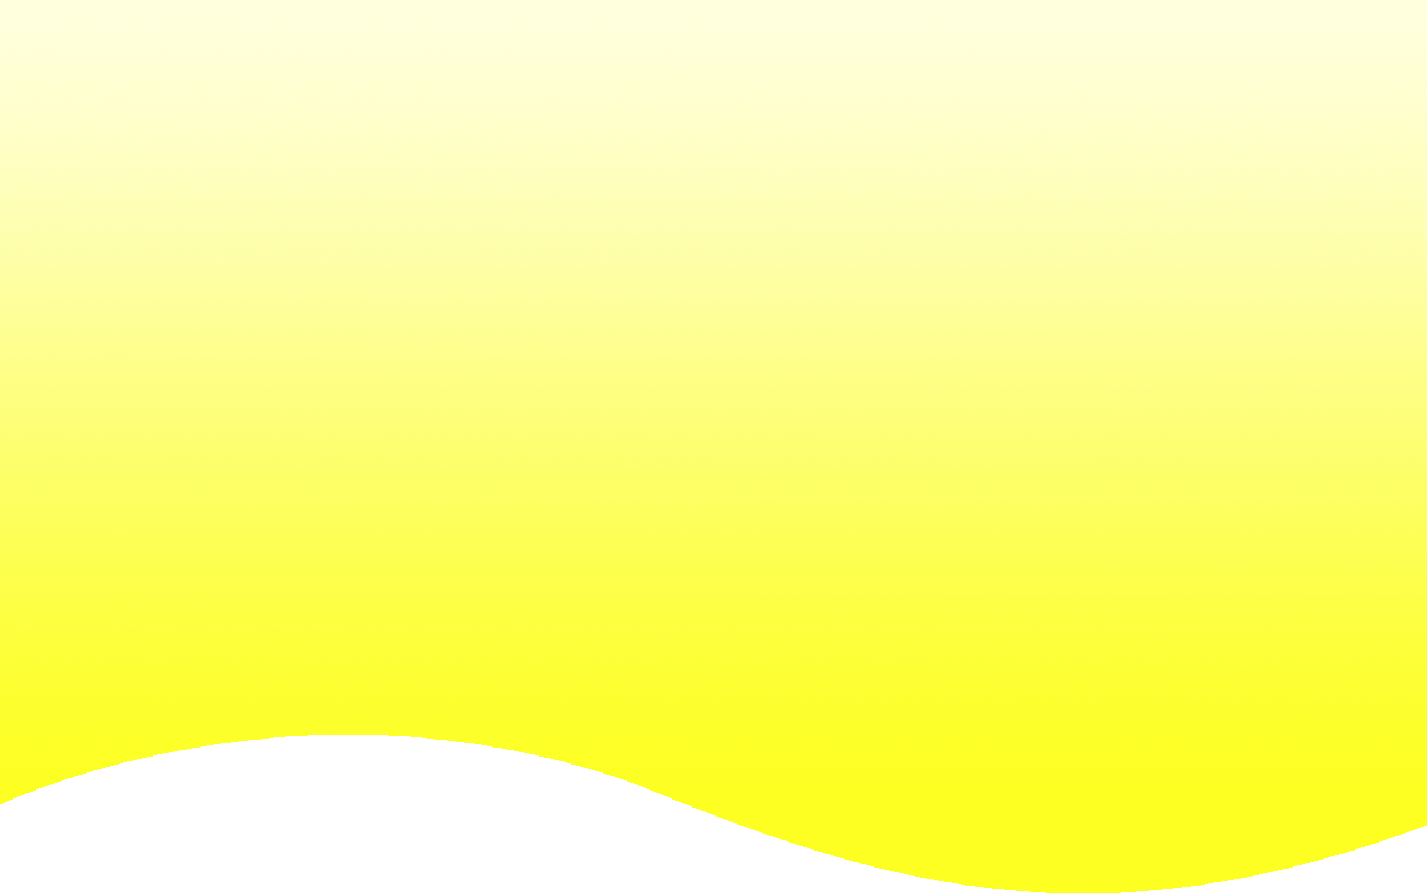
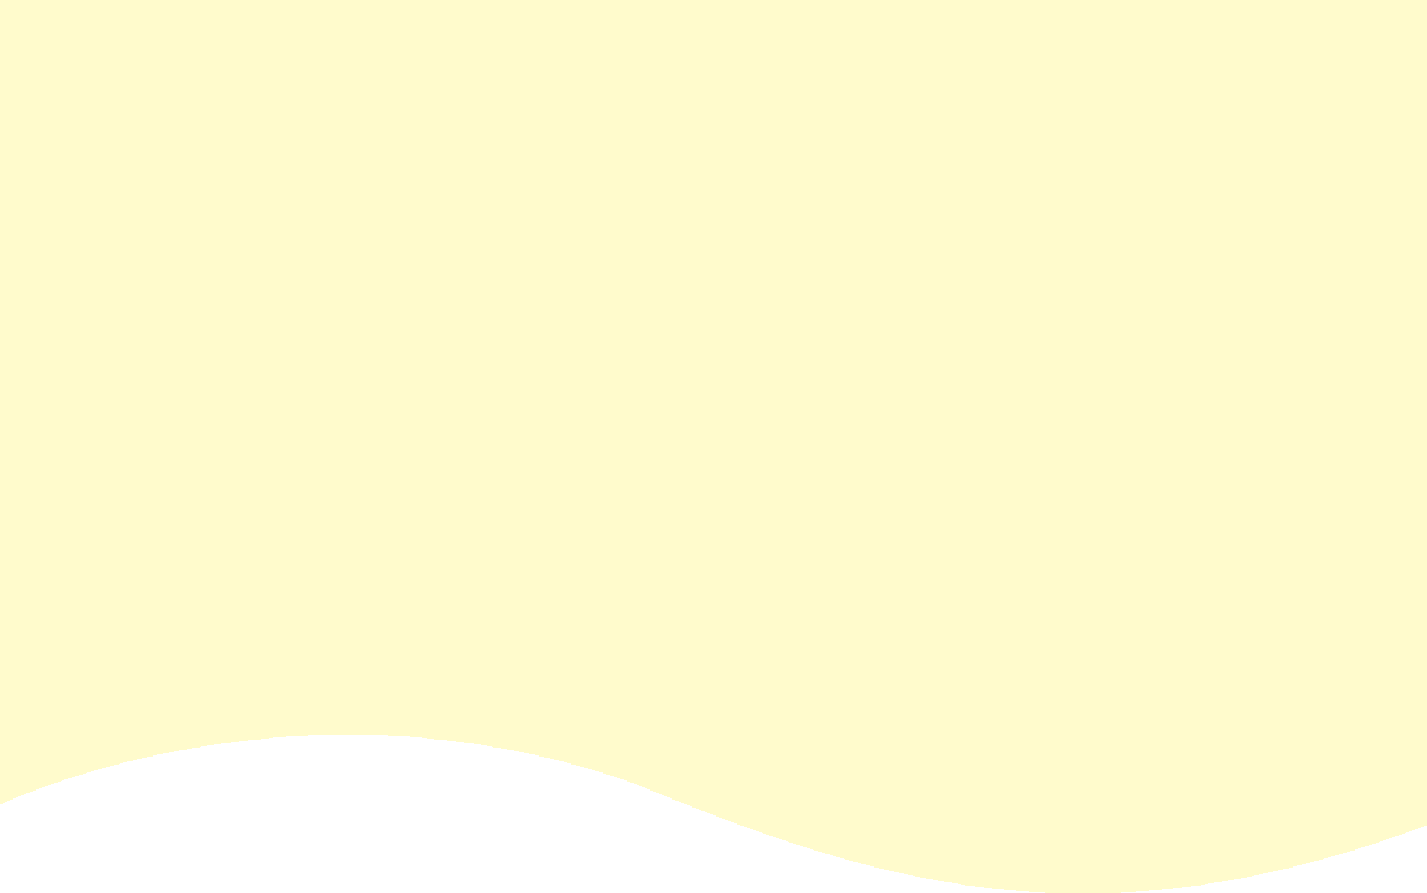
Add files via upload

diff --git a/service.html b/service.html
@@ -50,7 +50,7 @@
         <nav class="navbar navbar-expand-lg custom_nav-container ">
           <a class="navbar-brand" href="index.html">
             <span>
-              東方晒圖公司 
+              東方晒圖公司 Tel:24935338
             </span>
           </a>
 
@@ -119,8 +119,8 @@
                   快速, 準確, 又清楚的線條, 是我們追求的圖紙線條要求。另有電腦素描。紙的一邊可達841mm, 另一邊可超過3000mm,
                   歡迎查詢。
                 </p>
-                <a href="">
-                  Read More
+                <a href="contact.html">
+                  歡迎查詢
                 </a>
               </div>
             </div>
@@ -138,8 +138,8 @@
                   PP紙, 相紙, 畫布, 燈片, 燈布, 車身貼, 磨沙/透明貼, 裱板等等。
                   為您各類宣傳印刷品。
                 </p>
-                <a href="">
-                  歡迎查詢報價
+                <a href="contact.html">
+                  歡迎查詢
                 </a>
               </div>
             </div>
@@ -154,7 +154,7 @@
                   宣傳海報/橫額/大型過膠
                 </h5>
                 <p>
-                  PP紙, 相紙, 畫布, 燈片, 燈布, 車身貼, 磨沙/透明貼, 裱板等等。
+                  PP紙, 光/啞相紙, 畫布, 燈片, 帆布, 車身貼, 磨沙/透明貼, 裱板等等。
                   為您各類宣傳印刷品。
                 </p>
                 <a href="contact.html">
@@ -196,6 +196,12 @@
                 <i class="fa fa-phone" aria-hidden="true"></i>
                 <span>
                   電話: 24935338 
+                </span>
+              </a>
+              <a href="">
+                <i class="fa fa-whatsapp" aria-hidden="true"></i>
+                <span>
+                  Whatsapp: 98110589 
                 </span>
               </a>
               <a href="mailto:tftn123@gmail.com">

diff --git a/index.html b/index.html
@@ -50,7 +50,9 @@
         <nav class="navbar navbar-expand-lg custom_nav-container ">
           <a class="navbar-brand" href="index.html">
             <span>
-             Tel: 24935338 tftn123@gmail.com
+              <span>
+                東方晒圖公司 Tel:24935338
+              </span> 
             </span>
           </a>
 
@@ -264,11 +266,11 @@
             </div>
           </div>
         </div>
-        <div class="btn-box">
+        <!--<div class="btn-box">
           <a href="">
-            View All
+            歡迎查詢報價
           </a>
-        </div>
+        </div>-->
       </div>
     </div>
   </section>
@@ -366,7 +368,7 @@
               隨時下單
             </h5>
             <p>
-              1個電話 / 1個電郵, 隨時下單
+              1個電話 (tel:24935338) / 1個電郵 (tftn123@gmail.com), 隨時下單
             </p>
           </div>
         </div>
@@ -667,7 +669,13 @@
               <a href="">
                 <i class="fa fa-phone" aria-hidden="true"></i>
                 <span>
-                  電話: 24935338 
+                  電話: 2493-5338 
+                </span>
+              </a>
+              <a href="">
+                <i class="fa fa-whatsapp" aria-hidden="true"></i>
+                <span>
+                  Whatsapp: 98110589 
                 </span>
               </a>
               <a href="mailto:tftn123@gmail.com">

diff --git a/css/style.css b/css/style.css
@@ -127,7 +127,7 @@ a:focus {
 
 .sub_page .hero_area {
   min-height: auto;
-  background: linear-gradient(130deg, #ffff9e, #f9f94e);
+  background: linear-gradient(130deg, #ffffe8, #ffffec);
 }
 
 .sub_page .hero_area .hero_bg_box {
@@ -180,7 +180,7 @@ a:focus {
   height: 35px;
   padding: 0;
   border: none;
-  color: #ffffff;
+  color: #35552e;
 }
 
 .custom_nav-container .nav_search-btn:hover {
@@ -203,7 +203,7 @@ a:focus {
   display: block;
   width: 35px;
   height: 4px;
-  background-color: #ffffff;
+  background-color: #251f1f;
   margin: 7px 0;
   -webkit-transition: all 0.3s;
   transition: all 0.3s;
@@ -218,7 +218,7 @@ a:focus {
   left: 0;
   height: 100%;
   width: 100%;
-  background-color: #ffffff;
+  background-color: #bb250a;
   top: -10px;
   border-radius: 5px;
   -webkit-transition: all 0.3s;
@@ -775,8 +775,8 @@ a:focus {
 
 /* client section end */
 .info_section {
-  background-color: #00204a;
-  color: #ffffff;
+  background-color: #5a8fd5;
+  color: #fffb00;
   padding: 45px 0 15px 0;
 }
 

diff --git a/contact.html b/contact.html
@@ -118,6 +118,12 @@
                   電話: 24935338 
                 </span>
               </a>
+              <a href="">
+                <i class="fa fa-whatsapp" aria-hidden="true"></i>
+                <span>
+                  Whatsapp: 98110589 
+                </span>
+              </a>
               <a href="mailto:tftn123@gmail.com">
                 <i class="fa fa-envelope" aria-hidden="true"></i>
                 <span>
@@ -196,8 +202,8 @@
   <section class="footer_section">
     <div class="container">
       <p>
-        &copy; <span id="displayYear"></span> All Rights Reserved By
-        <a href="https://html.design/">Free Html Templates</a>
+        &copy; <span id="displayYear"></span> 東方晒圖公司版權所有
+       
       </p>
     </div>
   </section>

diff --git a/about.html b/about.html
@@ -50,7 +50,9 @@
         <nav class="navbar navbar-expand-lg custom_nav-container ">
           <a class="navbar-brand" href="index.html">
             <span>
-              東方晒圖公司 Tung Fong Printing Service
+              <span>
+                東方晒圖公司 Tel:24935338
+              </span>
             </span>
           </a>
 
@@ -153,6 +155,12 @@
                 <i class="fa fa-phone" aria-hidden="true"></i>
                 <span>
                   電話: 24935338 
+                </span>
+              </a>
+              <a href="">
+                <i class="fa fa-whatsapp" aria-hidden="true"></i>
+                <span>
+                  Whatsapp: 98110589 
                 </span>
               </a>
               <a href="mailto:tftn123@gmail.com">

diff --git a/why.html b/why.html
@@ -186,7 +186,13 @@
               <a href="">
                 <i class="fa fa-phone" aria-hidden="true"></i>
                 <span>
-                  電話: 24935338 
+                  東方晒圖公司 Tel:24935338
+                </span>
+              </a>
+              <a href="">
+                <i class="fa fa-whatsapp" aria-hidden="true"></i>
+                <span>
+                  Whatsapp: 98110589 
                 </span>
               </a>
               <a href="mailto:tftn123@gmail.com">

diff --git a/css/responsive.css b/css/responsive.css
@@ -8,7 +8,7 @@
   }
 
   .hero_area {
-    background: linear-gradient(130deg, #fcfad6, #ffc23f);
+    background: linear-gradient(130deg, #fffde0, #fffccc);
   }
 
   .hero_area .hero_bg_box {
